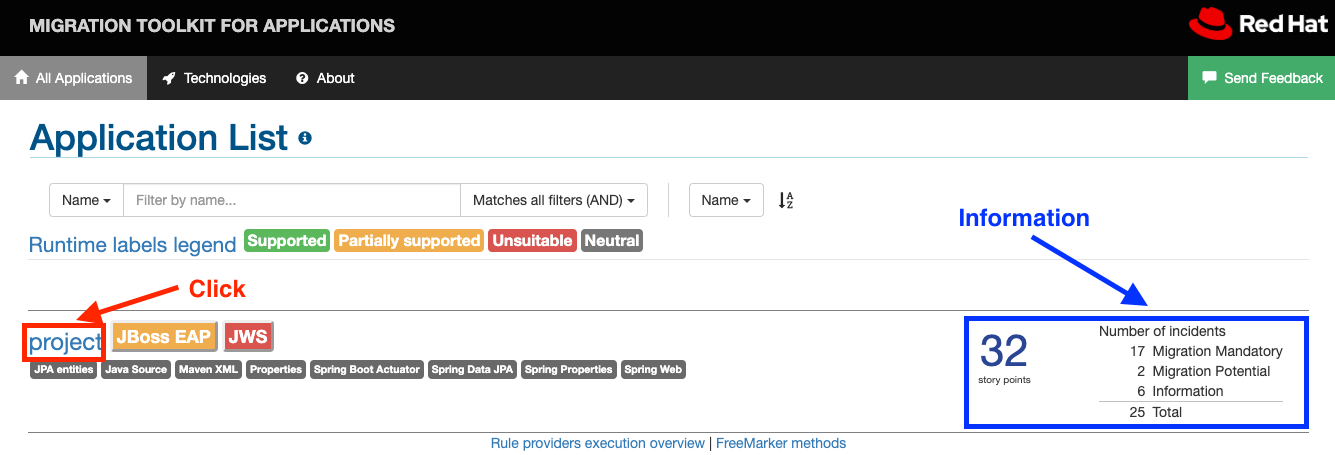
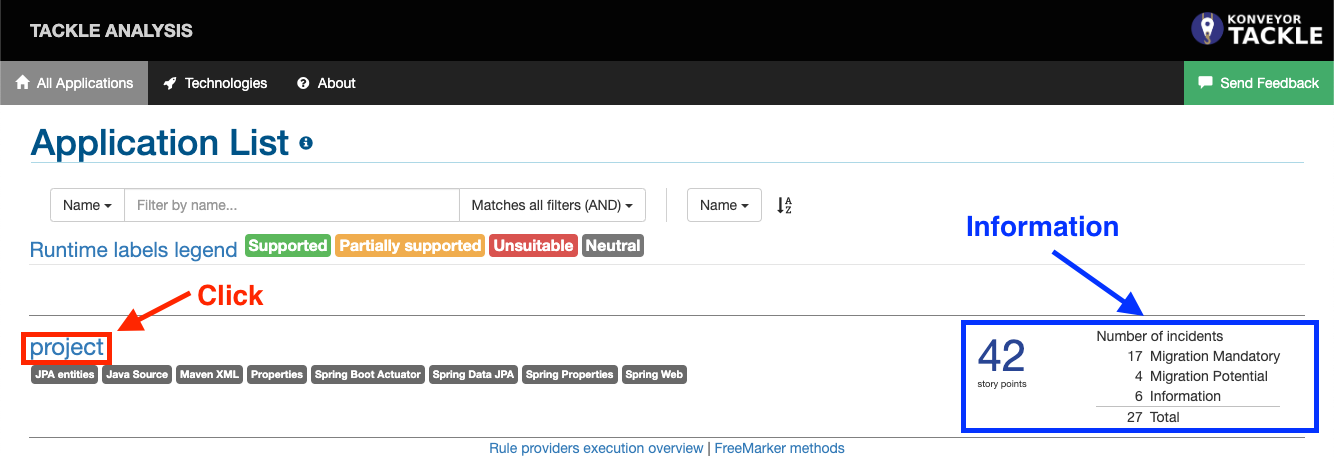
Update to use MTR 6.1.

diff --git a/README.md b/README.md
@@ -89,11 +89,14 @@ The completed solution to this exercise can be found in this repo's `solution` b
 - Open [`src/main/resources/import.sql`](src/main/resources/import.sql) to find some SQL that will pre-populate the database table with an initial set of data.
 
 # Analyze the application for migration
-We are going to use the [Red Hat Migration Toolkit for Applications (MTA)](https://developers.redhat.com/products/mta/overview) to analyze the application. MTA can be run in a number of different ways:
-- A [web application](https://access.redhat.com/documentation/en-us/migration_toolkit_for_applications/5.2/html/web_console_guide/index) running locally or on some remote machine.
-- A [command line interface](https://access.redhat.com/documentation/en-us/migration_toolkit_for_applications/5.2/html/cli_guide/index).
-- A [plugin to most major IDEs](https://access.redhat.com/documentation/en-us/migration_toolkit_for_applications/5.2/html/ide_plugin_guide/index).
-- A [Maven plugin](https://access.redhat.com/documentation/en-us/migration_toolkit_for_applications/5.2/html/maven_plugin_guide/index).
+We are going to use the [Red Hat Migration Toolkit for Runtimes (MTR)](https://developers.redhat.com/products/mtr/overview) to analyze the application. MTR can be run in a number of different ways:
+- A [web application](https://access.redhat.com/documentation/en-us/migration_toolkit_for_runtimes/1.0/html/web_console_guide/index) running locally or on some remote machine.
+- A [command line interface](https://access.redhat.com/documentation/en-us/migration_toolkit_for_runtimes/1.0/html/cli_guide/index).
+- A [Maven plugin](https://access.redhat.com/documentation/en-us/migration_toolkit_for_runtimes/1.0/html/maven_plugin_guide/index).
+- A plugin to most major IDEs
+    - [Eclipse and Red Hat CodeReady Studio](https://access.redhat.com/documentation/en-us/migration_toolkit_for_runtimes/1.0/html/eclipse_and_red_hat_codeready_studio_guide/index)
+    - [IntelliJ IDEA](https://access.redhat.com/documentation/en-us/migration_toolkit_for_runtimes/1.0/html/intellij_idea_plugin_guide/index)
+    - [Visual Studio Code](https://access.redhat.com/documentation/en-us/migration_toolkit_for_runtimes/1.0/html/visual_studio_code_extension_guide/index)
 
 For this exercise we have [pre-built a container image](https://quay.io/repository/rhappsvcs/spring-to-quarkus-mta-cli) that runs the [command line interface](https://access.redhat.com/documentation/en-us/migration_toolkit_for_applications/5.3/html/cli_guide/index). This approach was chosen to make it easier to run without having to install anything on a local machine.
 > **NOTE:** The [`spring-to-quarkus-mta-cli` repository](https://github.com/RedHat-Middleware-Workshops/spring-to-quarkus-mta-cli) contains the tooling to create the container image being used.
@@ -113,10 +116,10 @@ For this exercise we have [pre-built a container image](https://quay.io/reposito
 
 2. Once completed you will see something like:
    ```shell
-   Report created: /opt/project/mta-report/index.html
-              Access it at this URL: file:///opt/project/mta-report/index.html
+   Report created: /opt/project/windup-report/index.html
+              Access it at this URL: file:///opt/project/windup-report/index.html
    ```
-3. In your browser, open up the newly-created `mta-report/index.html` page within the project. You should see the **Application List** page:
+3. In your browser, open up the newly-created `windup-report/index.html` page within the project. You should see the **Application List** page:
 
    ![Application List](images/mta-app-list.png)
 
@@ -148,7 +151,7 @@ While we're in `pom.xml` we may as well fix all the issues related to it.
 
 1. In your editor/IDE, open [`pom.xml`](pom.xml)
 2. Find the `<parent>` section and remove it
-3. In the `<properties>` section, add `<quarkus.platform.version>2.14.0.Final</quarkus.platform.version>`
+3. In the `<properties>` section, add `<quarkus.platform.version>2.14.1.Final</quarkus.platform.version>`
 4. After the `<properties>` section but before the `<dependencies>` section, add the following block:
    ```xml
    <dependencyManagement>
@@ -478,8 +481,8 @@ Now let's re-analyze the application to see how much of the migration has been c
 
 2. Once completed you will see something like:
    ```shell
-   Report created: /opt/project/mta-report/index.html
-              Access it at this URL: file:///opt/project/mta-report/index.html
+   Report created: /opt/project/windup-report/index.html
+              Access it at this URL: file:///opt/project/windup-report/index.html
    ```
 
 3. Clicking back to the **Issues** tab should only show a few categories of issues. The remainder of the issues are fixed with configuration in the [`application.properties`](src/main/resources/application.properties) file.
